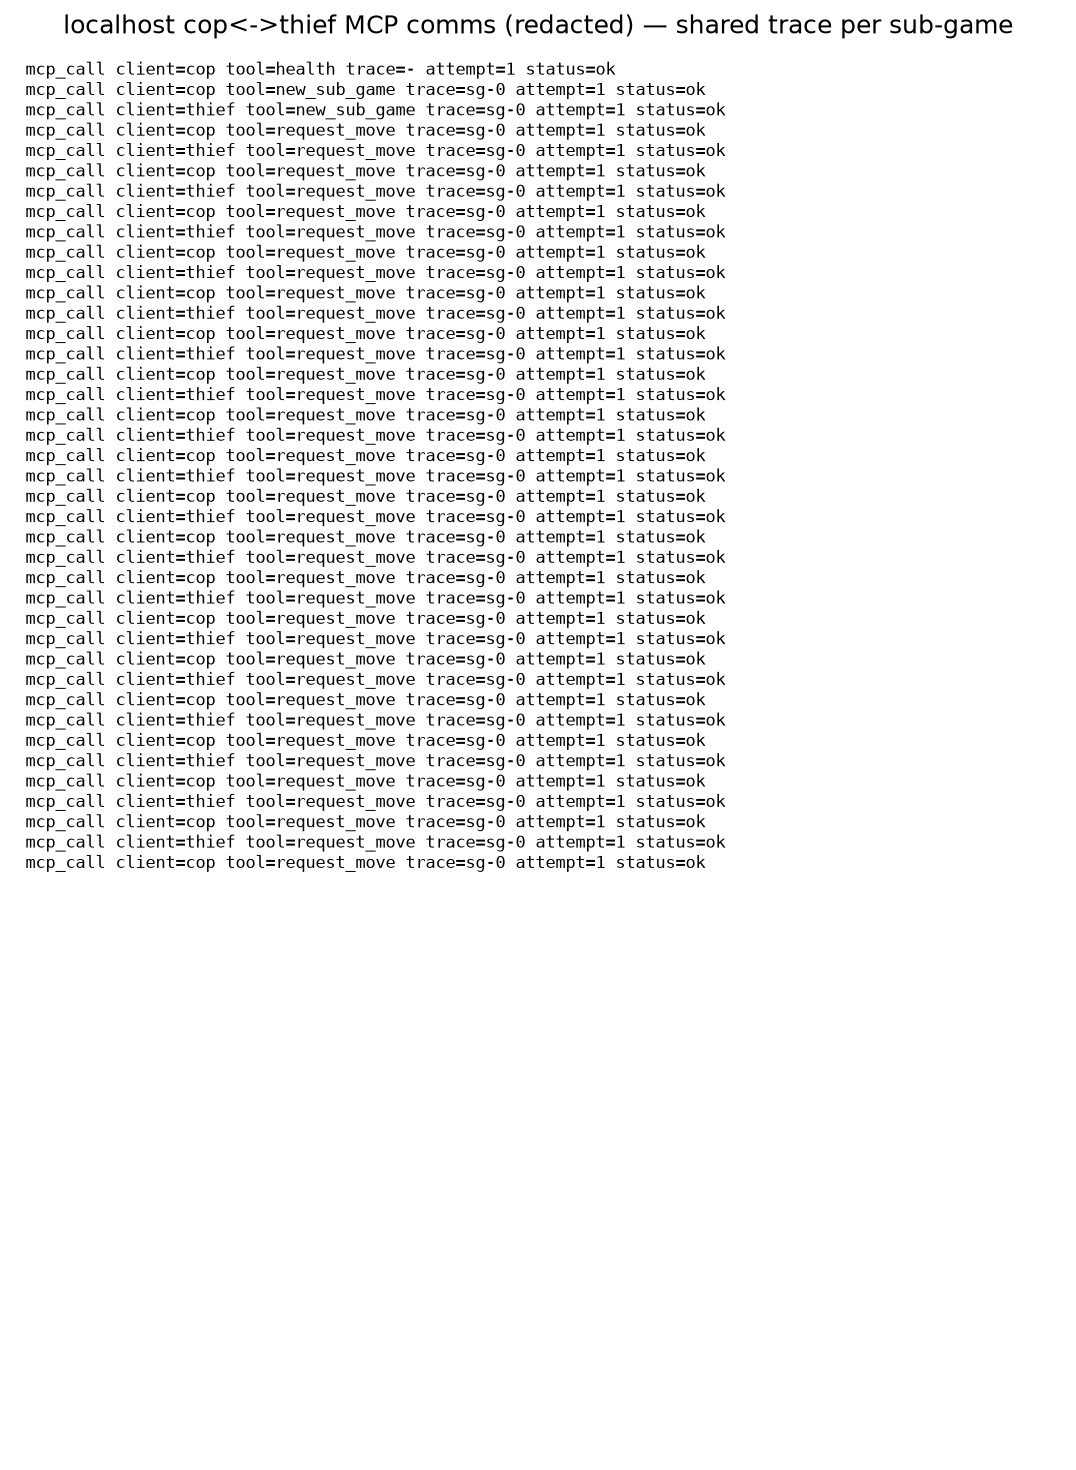
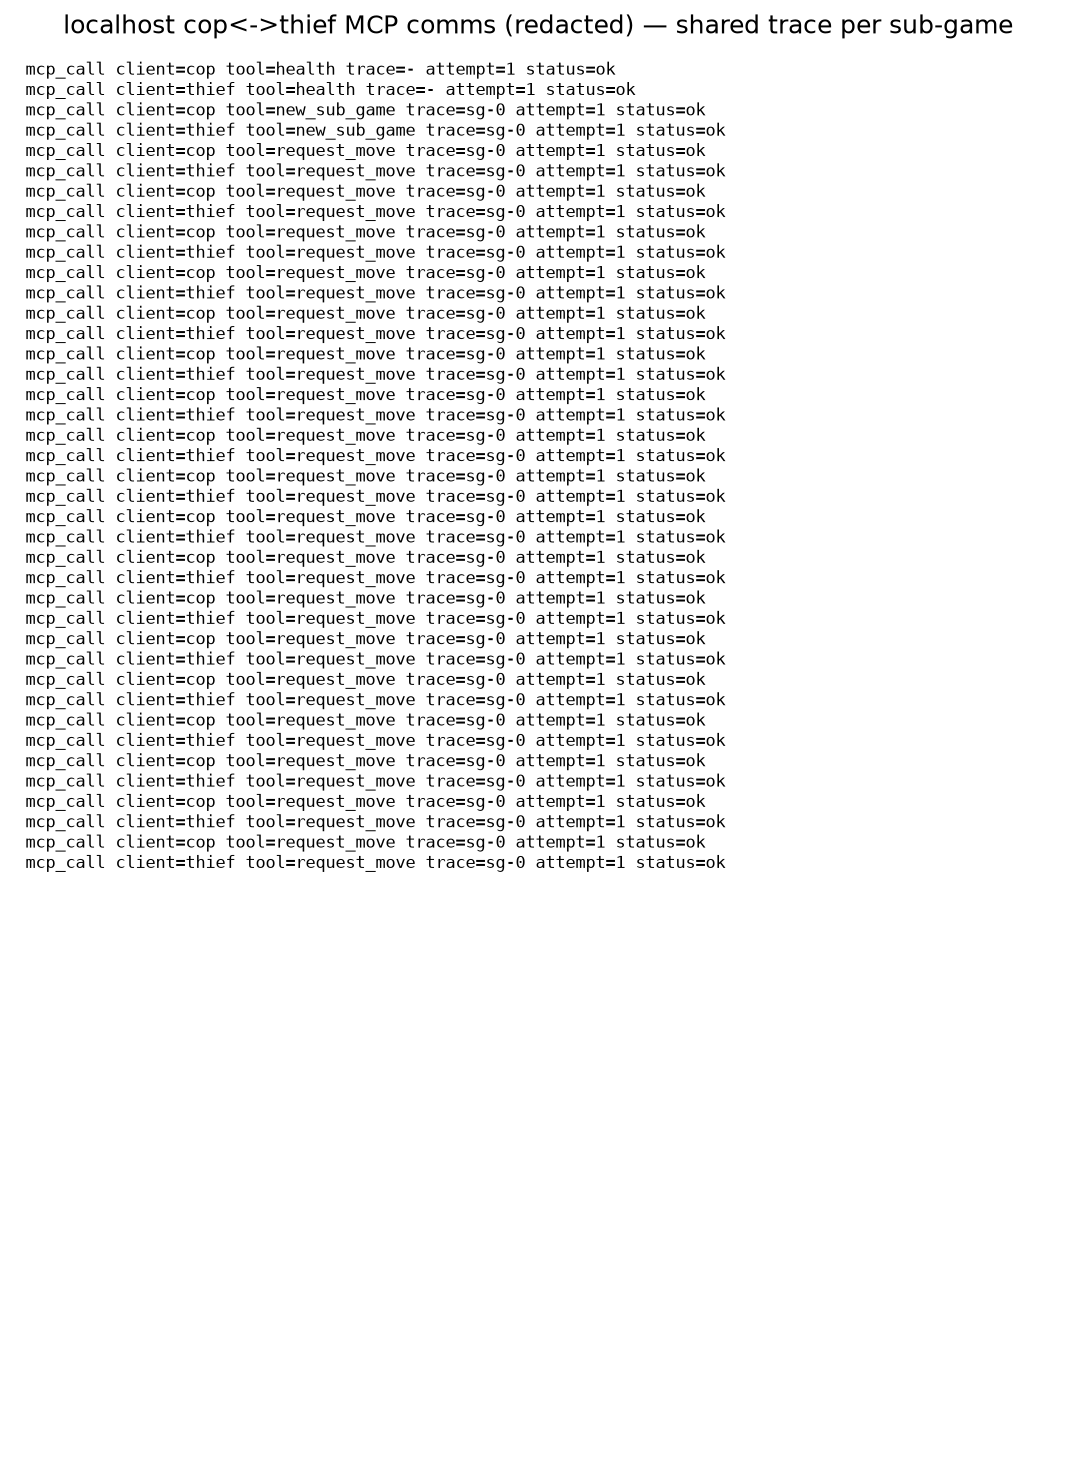
fix: every deliverable path served an UNTRAINED net — §3.5 report was irreproducible
Found while rehearsing the §3.5 send. scripts/run_match.py built its players with
sdk.fresh_net(), whose own docstring says UNTRAINED. Nothing seeds torch globally
outside trainer.py, so each process drew different random weights: four consecutive
matches returned cop 75 / 30 / 105 / 45. The emailed report would not have described
the trained system, and would not have reproduced.

Not a one-off — the same call sat in FIVE deliverable-producing paths: the §3.5
orchestrator, src/cli.py, the F4 comms capture, and both localhost demo servers. The
trained bundles were in deploy/model/ the whole time, served ONLY by the cloud workers
via MODEL_PATH. So the committed cloud match was genuine; the local paths were not.

Fix (closes the class, not the instance):
- src/sdk/_nets.py: fresh_net (untrained; training + tests) vs serving_net (loads the
  configured trained bundle). serving_net RAISES on a missing bundle rather than
  falling back — silent fallback is precisely what made this invisible.
- config paths.cop_model / paths.thief_model (no hardcoded paths, CLAUDE.md §4).
- all five callers rewired; sdk.py held at <=150 LOC by delegating both factories.
- tests/architecture/test_serving_nets.py asserts at the ENTRY POINTS (a test that
  only checked serving_net in isolation would have passed while every caller used
  fresh_net), plus reproducibility, fail-loud, and bad-role behaviour.
- regenerated F4 mcp_comms_local.png, which had been captured from random play.
[…]

Changed region(s): [[0.1533, 0.0612, 0.6747, 0.6122]]

diff --git a/tests/architecture/test_serving_nets.py b/tests/architecture/test_serving_nets.py
@@ -1,0 +1,82 @@
+"""Every deliverable path must serve the TRAINED policy, never a random net.
+
+The 2026-07-22 defect: the §3.5 match orchestrator, the CLI, the F4 comms capture and
+both localhost demo servers all built their players with ``fresh_net`` — untrained,
+unseeded, different weights every process. The §3.5 report was therefore irreproducible
+(four consecutive runs: cop 75 / 30 / 105 / 45) and did not describe the shipped policy.
+
+These tests assert the property that was missing, at the level it was missing: the
+ENTRY POINTS, not the loader. A test that only checked ``serving_net`` in isolation
+would still have passed while every caller used ``fresh_net``.
+"""
+
+from __future__ import annotations
+
+from pathlib import Path
+
+import pytest
+import torch
+
+from src.sdk.sdk import MarlSDK
+from src.utils.config_loader import load_config
+
+# The modules whose output is graded — each must serve trained weights.
+_DELIVERABLE_SOURCES = (
+    "scripts/run_match.py",  # §3.5 emailed report
+    "src/cli.py",  # user-facing match
+    "src/results/comms.py",  # F4 MCP comms figure
+    "src/mcp/localhost_cop.py",  # §5.3 Stage-1 demo server
+    "src/mcp/localhost_thief.py",
+)
+
+
+@pytest.mark.parametrize("source", _DELIVERABLE_SOURCES)
+def test_deliverable_entry_points_do_not_use_untrained_nets(source):
+    """No graded path may call ``fresh_net`` — that is the defect, spelled out."""
+    text = Path(source).read_text(encoding="utf-8")
+    assert "fresh_net" not in text, (
+        f"{source} builds players with fresh_net (UNTRAINED, unseeded random weights). "
+        "Graded artifacts must use MarlSDK.serving_net."
+    )
+
+
+@pytest.mark.parametrize("role", ["cop", "thief"])
+def test_configured_trained_bundle_exists(role):
+    """``paths.{role}_model`` must be set AND present — a fresh clone must reproduce the match."""
+    path = load_config()["paths"][f"{role}_model"]
+    assert Path(path).exists(), f"trained {role} bundle missing at {path}"
+
+
+@pytest.mark.parametrize("role", ["cop", "thief"])
+def test_serving_net_is_reproducible_across_calls(role):
+    """Two ``serving_net`` calls give bit-identical weights; ``fresh_net`` does not.
+
+    This is the actual determinism property the §3.5 report depends on. The fresh_net
+    half is asserted too, so the test fails if serving_net ever silently degrades into
+    a random-net factory (which would otherwise look like a pass).
+    """
+    sdk = MarlSDK(load_config())
+
+    def fingerprint(net):
+        return float(torch.cat([p.flatten() for p in net.parameters()]).sum())
+
+    assert fingerprint(sdk.serving_net(role)) == fingerprint(sdk.serving_net(role))
+    assert fingerprint(sdk.fresh_net(role)) != fingerprint(sdk.fresh_net(role))
+
+
+def test_serving_net_fails_loudly_when_the_bundle_is_missing(tmp_path):
+    """A missing bundle raises rather than falling back to an untrained net.
+
+    Silent fallback is what made the original defect invisible: a bad report looked
+    exactly like a good one.
+    """
+    cfg = load_config()
+    cfg["paths"] = {**cfg["paths"], "cop_model": str(tmp_path / "absent.pt")}
+    with pytest.raises(FileNotFoundError, match="bundle missing"):
+        MarlSDK(cfg).serving_net("cop")
+
+
+def test_serving_net_rejects_an_unknown_role():
+    """An unknown role is a ValueError, not a KeyError from deep inside the loader."""
+    with pytest.raises(ValueError, match="cop/thief"):
+        MarlSDK(load_config()).serving_net("referee")

diff --git a/src/sdk/_nets.py b/src/sdk/_nets.py
@@ -1,0 +1,62 @@
+"""Net factories behind the SDK facade — the UNTRAINED vs SERVING distinction.
+
+Input: the loaded config, a role (``"cop"`` / ``"thief"``) and an optional agent count.
+Output: a ``RecurrentQNet`` — randomly initialised (:func:`fresh_net`) or restored from
+the committed trained bundle (:func:`serving_net`).
+Setup: :func:`serving_net` reads ``paths.cop_model`` / ``paths.thief_model``; both
+bundles are tracked in-repo, so no download or training run is needed.
+
+WHY THE SPLIT (the 2026-07-22 defect): every deliverable-producing entry point —
+the §3.5 match orchestrator, the CLI, the F4 comms capture and the localhost demo
+servers — called ``fresh_net`` and therefore played with RANDOM weights. Nothing
+seeds torch globally outside the trainer, so each process drew different nets and the
+§3.5 report was irreproducible (four consecutive runs: cop 75/30/105/45). The trained
+bundles were sitting in ``deploy/model/`` being served by the CLOUD servers only.
+``serving_net`` is the one way to obtain the policy we actually ship; ``fresh_net``
+survives for training and tests, where an untrained net is the point.
+"""
+
+from __future__ import annotations
+
+from pathlib import Path
+
+_DEFAULT_AGENTS = {"cop": 2, "thief": 1}
+_MODEL_KEY = {"cop": "cop_model", "thief": "thief_model"}
+
+
+def _agents(role: str, n_agents: int | None) -> int:
+    """Resolve the agent count — explicit wins, else the role default (cop 2 / thief 1)."""
+    return n_agents if n_agents is not None else _DEFAULT_AGENTS.get(role, 1)
+
+
+def fresh_net(cfg: dict, role: str, n_agents: int | None = None) -> object:
+    """Build an UNTRAINED role net (random weights).
+
+    For training and for tests that need a blank net. NOT for anything that produces a
+    graded artifact — use :func:`serving_net` there.
+    """
+    from src.marl.nets.agent_net import RecurrentQNet  # noqa: PLC0415 — lazy: keep import light
+
+    return RecurrentQNet(cfg, role, _agents(role, n_agents))
+
+
+def serving_net(cfg: dict, role: str, n_agents: int | None = None) -> object:
+    """Load the TRAINED role net from its configured bundle — the policy we ship.
+
+    Raises:
+        ValueError: If ``role`` is not cop/thief, or its ``paths.*_model`` key is absent.
+        FileNotFoundError: If the configured bundle is missing. Deliberately fail-fast:
+            silently falling back to an untrained net is the exact defect this replaces,
+            and a silent fallback would make a bad report look like a good one.
+    """
+    from src.services.checkpoints import load_agent_weights  # noqa: PLC0415 — lazy: torch import
+
+    if role not in _MODEL_KEY:
+        raise ValueError(f"serving_net: role must be cop/thief, got {role!r}")
+    key = _MODEL_KEY[role]
+    path = cfg.get("paths", {}).get(key)
+    if not path:
+        raise ValueError(f"serving_net: config paths.{key} is not set — cannot serve a trained {role}")
+    if not Path(path).exists():
+        raise FileNotFoundError(f"serving_net: trained {role} bundle missing at {path} (paths.{key})")
+    return load_agent_weights(path, cfg, role, _agents(role, n_agents))

diff --git a/src/sdk/sdk.py b/src/sdk/sdk.py
@@ -21,6 +21,7 @@ from pathlib import Path
 
 from src.marl.env.cops_robbers_env import CopsRobbersEnv
 from src.marl.nets.olora_linear import wrap_encoder
+from src.sdk import _nets
 from src.sdk._train_helpers import cfg_for_algo
 from src.sdk._validation import _validate_config, _validate_input
 from src.services.checkpoints import export_agent_weights, load_agent_weights
@@ -111,15 +112,12 @@ class MarlSDK:
         return finetune_curriculum(cfg, seed, stage_indices, cop_net, thief_net, rounds_per_stage)
 
     def fresh_net(self, role: str, n_agents: int | None = None) -> object:
-        """Build an UNTRAINED role net (cop n_agents=2 / thief 1) — the SDK net factory.
+        """Build an UNTRAINED role net — for training and tests, NOT for graded artifacts."""
+        return _nets.fresh_net(self._cfg, role, n_agents)
 
-        Lets thin launchers / the results layer obtain a net WITHOUT importing the marl
-        net class directly (keeps the SDK the single seam, §4.1).
-        """
-        from src.marl.nets.agent_net import RecurrentQNet  # noqa: PLC0415 — lazy: keep import light
-
-        agents = n_agents if n_agents is not None else (2 if role == "cop" else 1)
-        return RecurrentQNet(self._cfg, role, agents)
+    def serving_net(self, role: str, n_agents: int | None = None) -> object:
+        """Load the TRAINED role net from its configured bundle — the policy we ship (§3.5/§5.3)."""
+        return _nets.serving_net(self._cfg, role, n_agents)
 
     def build_policy(self, role: str, net: object, n_agents: int = 1) -> object:
         """Return an acting policy over ``net`` — the single local-obs acting seam.

diff --git a/scripts/run_match.py b/scripts/run_match.py
@@ -22,7 +22,7 @@ def main(cfg: dict | None = None, send: bool = False) -> dict:
     cfg = cfg or load_config()
     sdk = MarlSDK(cfg)
     seed = int(cfg["training"]["seeds"][0])
-    out = sdk.run_local_match(sdk.fresh_net("cop"), sdk.fresh_net("thief"), load_players(), seed)
+    out = sdk.run_local_match(sdk.serving_net("cop"), sdk.serving_net("thief"), load_players(), seed)
     print(f"[match] {out['num_games']} sub-games | totals={out['report']['totals']} | ack={out['ack']}")
     if send:  # pragma: no cover - real Gmail egress; requires creds + network + explicit go
         result = sdk.send_final_report(out["report"])

diff --git a/src/cli.py b/src/cli.py
@@ -30,7 +30,7 @@ def _train(sdk: object, cfg: dict, args: argparse.Namespace) -> dict:
 def _play(sdk: object, cfg: dict, args: argparse.Namespace) -> dict:
     """Run the 6-sub-game match over the in-memory MCP (dry-run); print + return the result."""
     out = sdk.run_local_match(
-        sdk.fresh_net("cop"), sdk.fresh_net("thief"), load_players(), int(cfg["training"]["seeds"][0])
+        sdk.serving_net("cop"), sdk.serving_net("thief"), load_players(), int(cfg["training"]["seeds"][0])
     )
     print(f"[cli play] {out['num_games']} sub-games | totals={out['report']['totals']}")
     return out

diff --git a/tests/unit/test_cli.py b/tests/unit/test_cli.py
@@ -21,6 +21,11 @@ class _FakeSDK:
     def fresh_net(self, role, n_agents=None):
         return f"net:{role}"
 
+    def serving_net(self, role, n_agents=None):
+        # The CLI plays with the TRAINED net (see tests/architecture/test_serving_nets.py);
+        # the label differs from fresh_net so a regression to untrained is visible here too.
+        return f"trained-net:{role}"
+
     def run_local_match(self, *args, **kwargs):
         return {"num_games": 6, "report": {"totals": {"cop": 20, "thief": 5}}}
 

diff --git a/src/results/comms.py b/src/results/comms.py
@@ -50,7 +50,9 @@ def capture(cfg: dict) -> list[str]:
     try:
         sdk = MarlSDK(cfg)
         seed = int(cfg["training"]["seeds"][0])
-        sdk.run_local_match(sdk.fresh_net("cop"), sdk.fresh_net("thief"), load_players(), seed, num_games=1)
+        sdk.run_local_match(
+            sdk.serving_net("cop"), sdk.serving_net("thief"), load_players(), seed, num_games=1
+        )
     finally:
         logger.removeHandler(handler)
     return handler.lines

diff --git a/src/mcp/localhost_thief.py b/src/mcp/localhost_thief.py
@@ -20,5 +20,5 @@ from src.utils.config_loader import load_config
 
 _cfg = load_config()
 mcp = make_thief_server(
-    _cfg, MarlSDK(_cfg).fresh_net("thief"), token=os.environ.get("THIEF_MCP_TOKEN") or secrets.token_hex(8)
+    _cfg, MarlSDK(_cfg).serving_net("thief"), token=os.environ.get("THIEF_MCP_TOKEN") or secrets.token_hex(8)
 )

diff --git a/src/mcp/localhost_cop.py b/src/mcp/localhost_cop.py
@@ -20,5 +20,5 @@ from src.utils.config_loader import load_config
 
 _cfg = load_config()
 mcp = make_cop_server(
-    _cfg, MarlSDK(_cfg).fresh_net("cop"), token=os.environ.get("COP_MCP_TOKEN") or secrets.token_hex(8)
+    _cfg, MarlSDK(_cfg).serving_net("cop"), token=os.environ.get("COP_MCP_TOKEN") or secrets.token_hex(8)
 )
